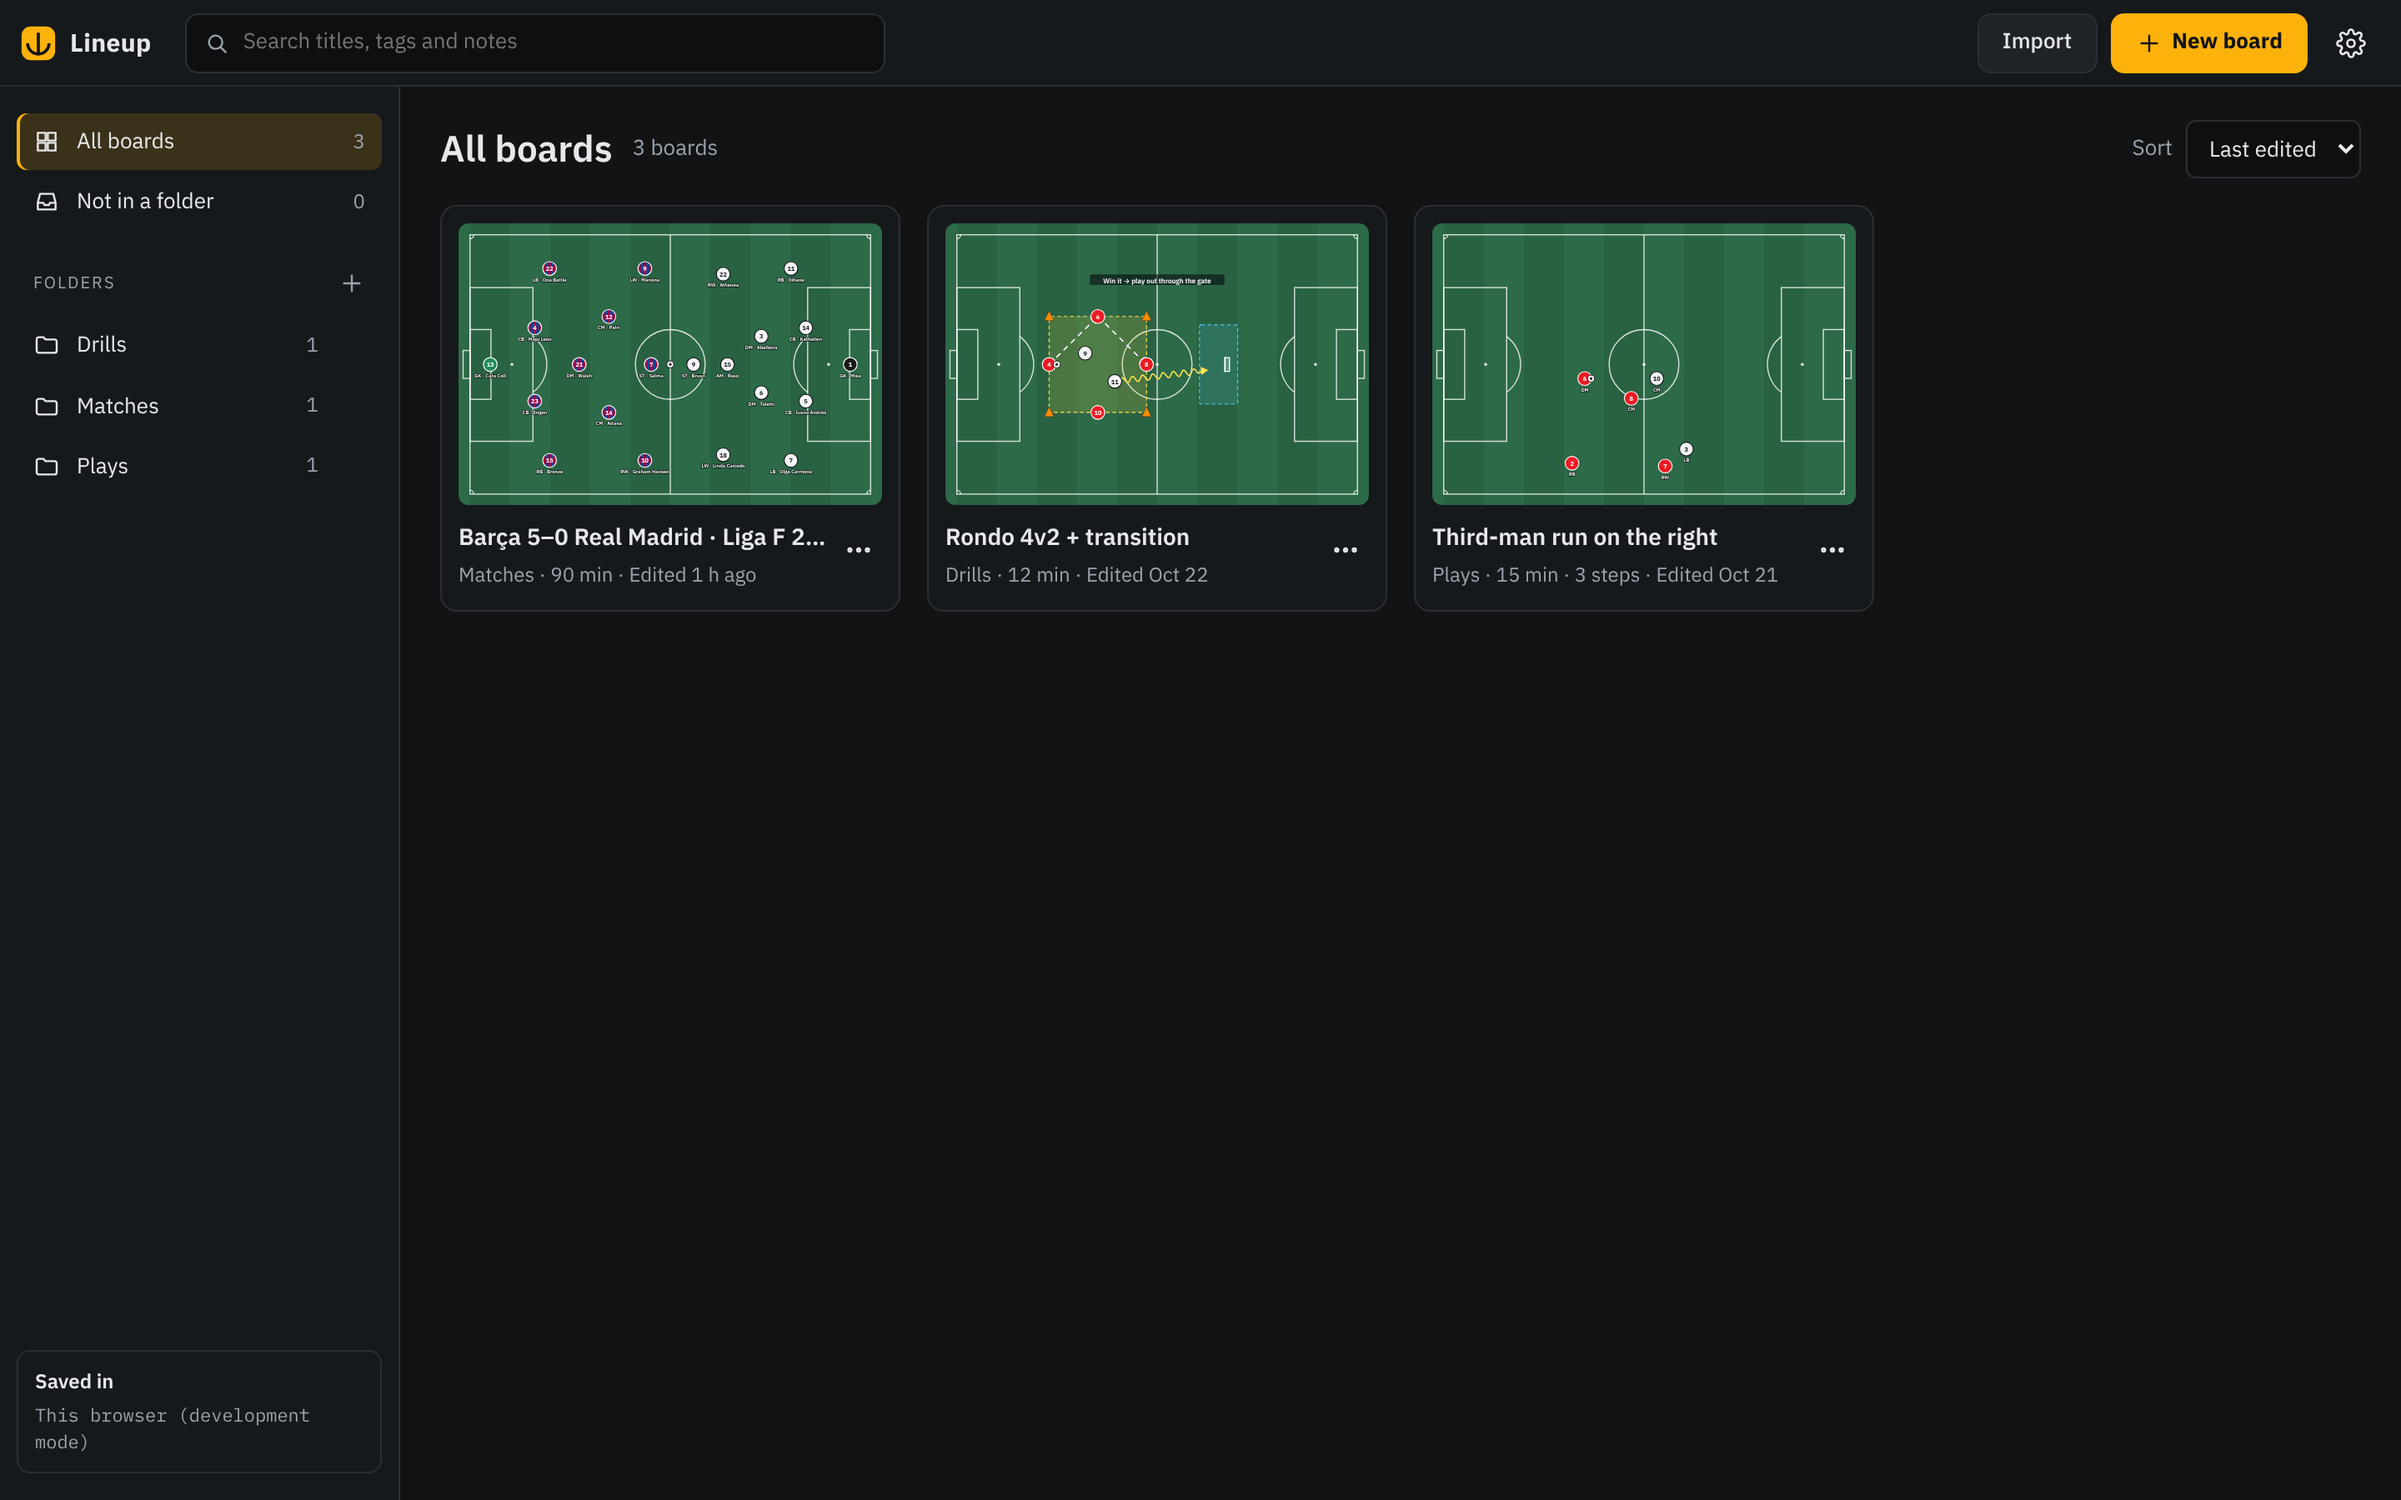
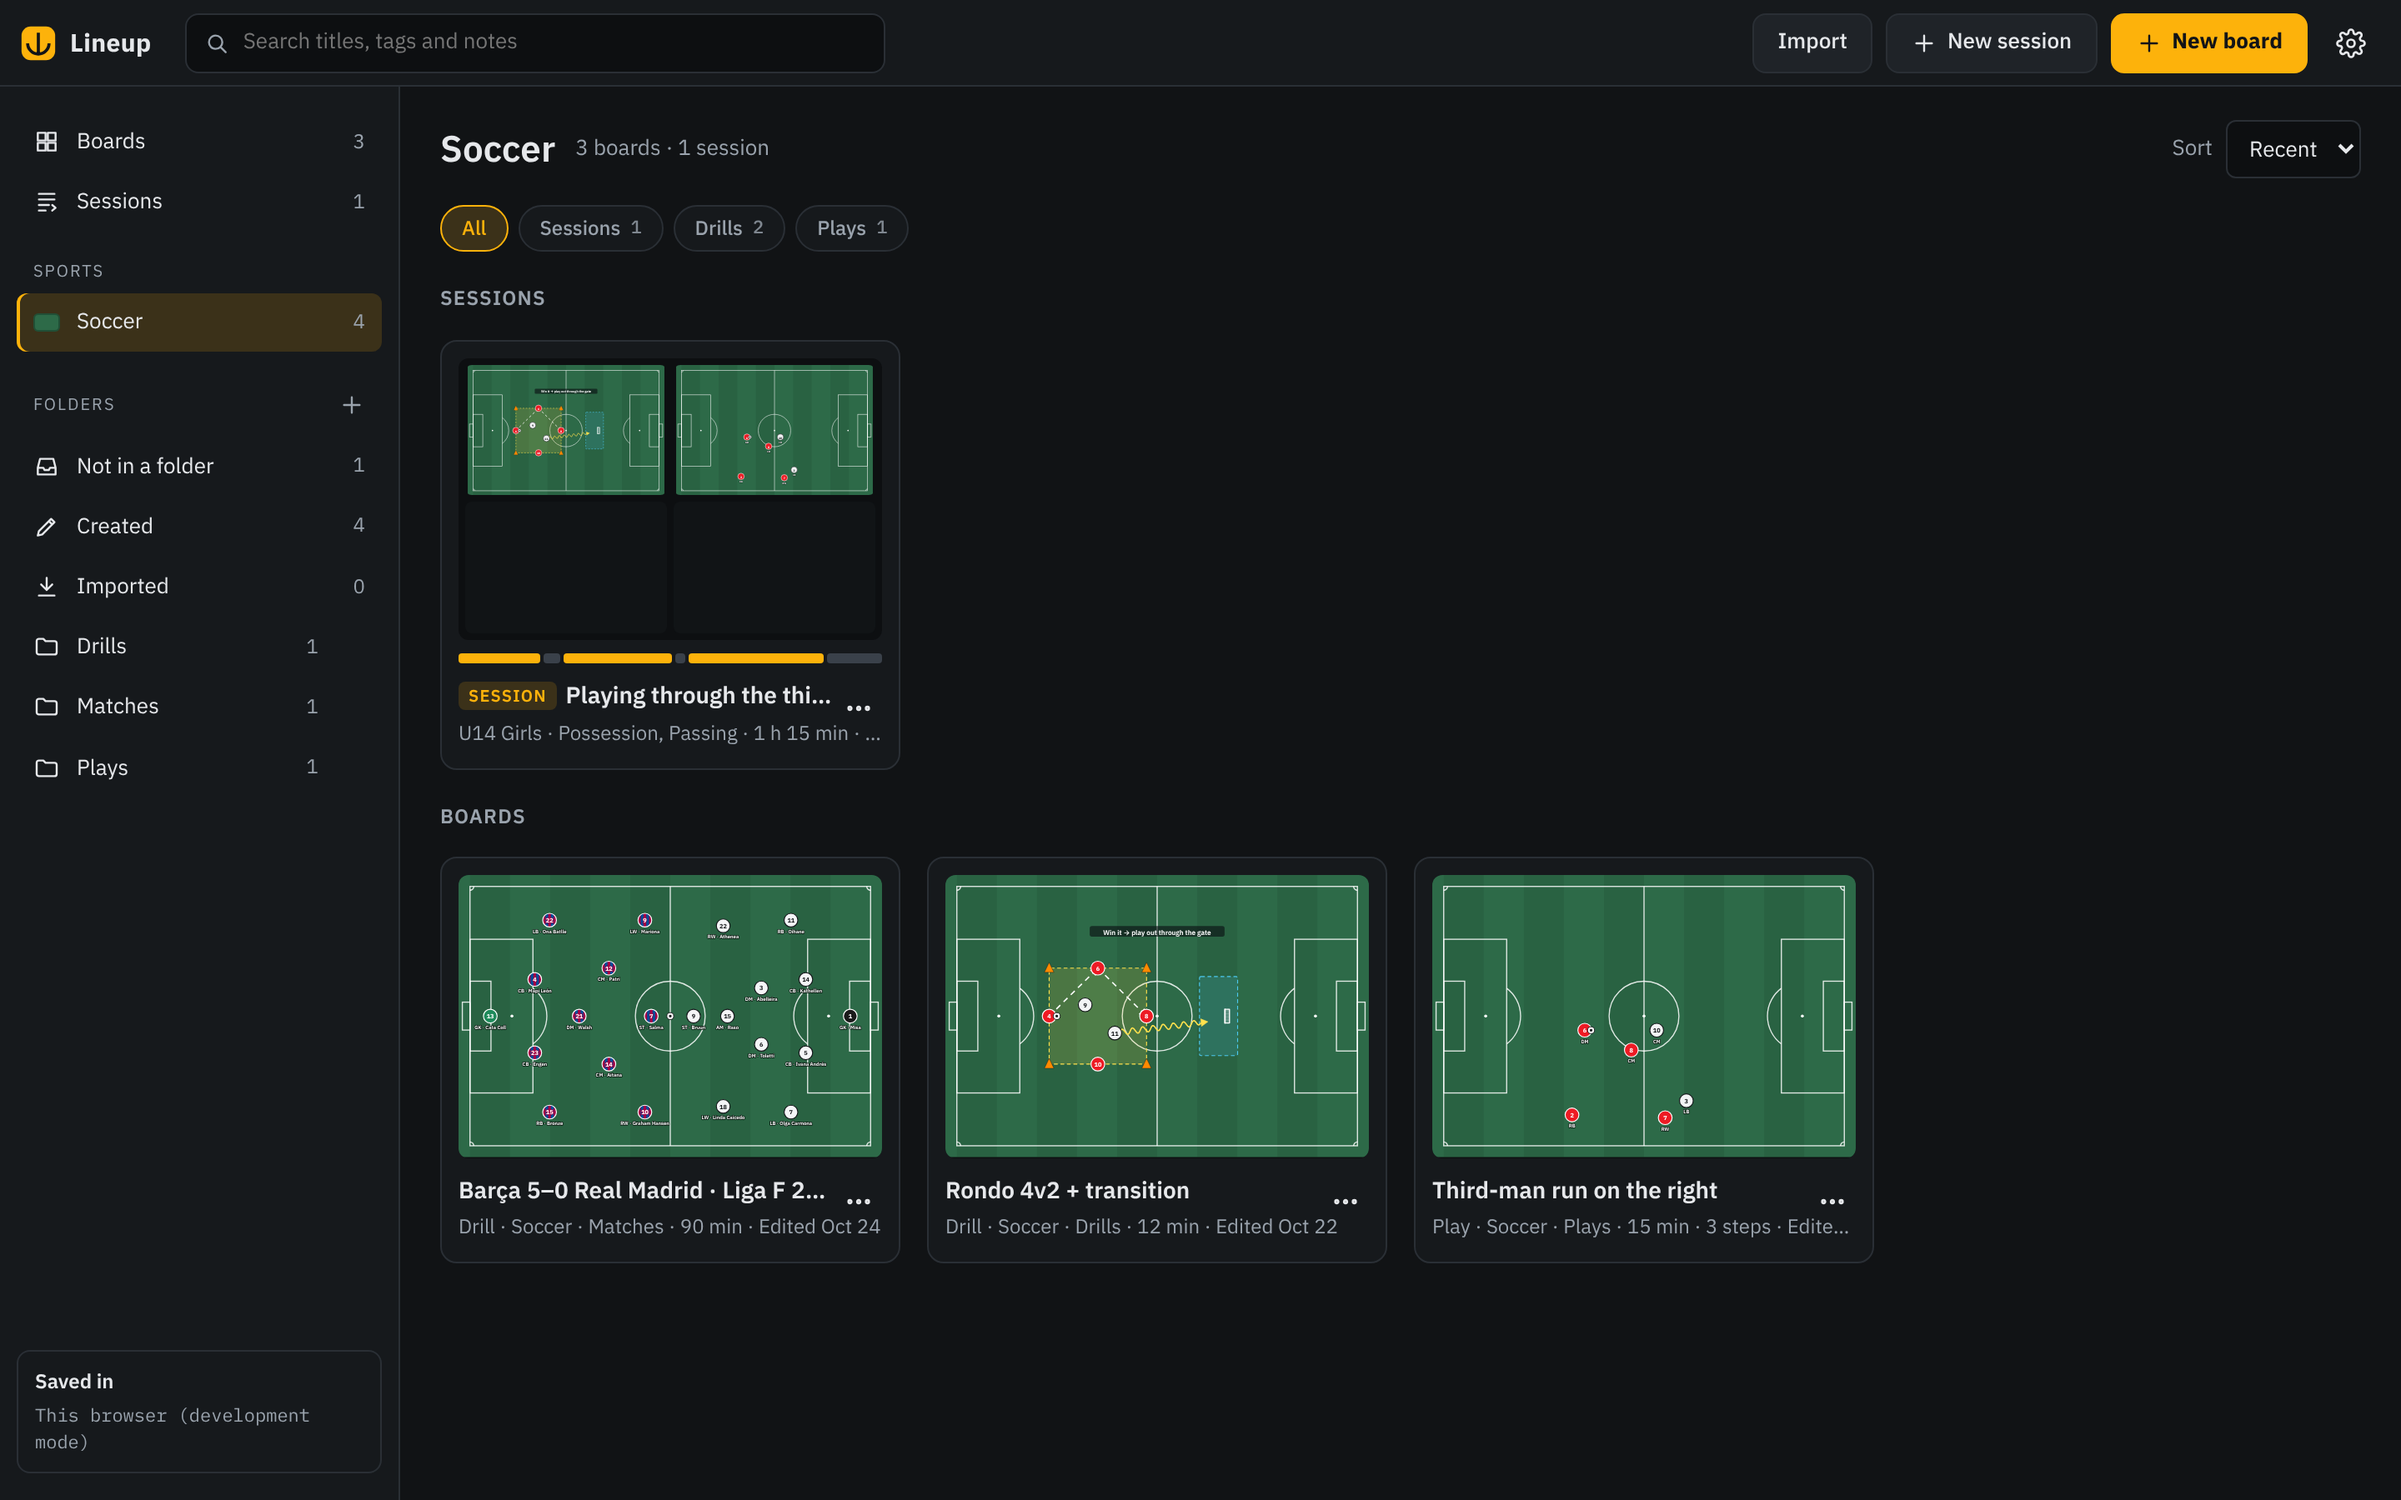
style(library): colour session card strips like the plan, and update the library screenshot

diff --git a/src/components/library/SessionCard.tsx b/src/components/library/SessionCard.tsx
@@ -1,5 +1,6 @@
 import {
 	formatMinutes,
+	isRestBlock,
 	Session,
 	sessionMinutes,
 	sessionTitle,
@@ -15,7 +16,8 @@ import CardMenuButton from "./CardMenuButton";
 
 /**
  * A session in the library: the first drills' pictures, a strip showing how
- * the time is split between drills and breaks, and its details.
+ * the time is split between training and rest (the same colours as the plan),
+ * and its details.
  */
 export default function SessionCard({
 	session,
@@ -76,7 +78,11 @@ export default function SessionCard({
 						{session.blocks.map((b) => (
 							<span
 								key={b.id}
-								className={`session-card__segment session-card__segment--${b.kind}`}
+								className={`session-card__segment session-card__segment--${
+									isRestBlock(b, (id) => getBoard(id)?.notes.stage ?? "")
+										? "rest"
+										: "active"
+								}`}
 								style={{ flexGrow: b.minutes || 0.0001 }}
 							/>
 						))}

diff --git a/src/model/session.ts b/src/model/session.ts
@@ -333,6 +333,24 @@ export function minutesFromText(text: string): number | null {
  * count as Activities). Breaks are numbered by name ("Water break 1"); other
  * blocks keep their own name.
  */
+/**
+ * Whether a block is a rest from training: a break, a cool-down, or a block
+ * without a part of the session. These are drawn in a neutral colour, and
+ * training parts in the accent colour.
+ */
+export function isRestBlock(
+	block: SessionBlock,
+	stageOf: (boardId: string) => string,
+): boolean {
+	const part =
+		block.kind === "break"
+			? ""
+			: block.kind === "custom"
+			  ? block.stage.trim()
+			  : block.stage.trim() || stageOf(block.boardId).trim() || "Activity";
+	return !part || part.toLowerCase() === "cool-down";
+}
+
 export function blockStages(
 	session: Session,
 	stageOf: (boardId: string) => string,

diff --git a/src/components/session/Timeline.tsx b/src/components/session/Timeline.tsx
@@ -8,6 +8,7 @@ import { useNavigate } from "react-router-dom";
 import { BOARD_TYPE_LABELS } from "../../model/board";
 import {
 	blockStages,
+	isRestBlock,
 	blockTimes,
 	createBreakBlock,
 	createCustomBlock,
@@ -98,15 +99,7 @@ function BlockRow({
 	const update = (patch: BlockPatch) =>
 		dispatch({ type: "updateBlock", id: block.id, patch });
 
-	// Training parts are in the accent colour; breaks, cool-downs and blocks
-	// without a part are neutral.
-	const part =
-		block.kind === "break"
-			? ""
-			: block.kind === "custom"
-			  ? block.stage.trim()
-			  : block.stage.trim() || board?.notes.stage.trim() || "Activity";
-	const resting = !part || part.toLowerCase() === "cool-down";
+	const resting = isRestBlock(block, () => board?.notes.stage ?? "");
 
 	const entries = menu(block, index);
 	const summary = board

diff --git a/src/styles/app.css b/src/styles/app.css
@@ -2080,15 +2080,11 @@ button.save-status--error:hover {
 	min-width: 3px;
 }
 
-.session-card__segment--drill {
+.session-card__segment--active {
 	background: var(--accent);
 }
 
-.session-card__segment--break {
-	background: var(--secondary);
-}
-
-.session-card__segment--custom {
+.session-card__segment--rest {
 	background: var(--border-strong);
 }
 

diff --git a/README.md b/README.md
@@ -70,7 +70,7 @@ Everything is stored as files on your computer, and the app works without an acc
 
 ### Library and files
 
-![The library with folders and previews](screenshots/library.png)
+![The library: a session and boards for soccer, with folders and the Created and Imported views](screenshots/library.png)
 
 - Every board and session saves automatically to `Documents\Lineup`, as `.lineup` and `.lineup-session` files
 - Browse by sport or folder, search across titles, tags and notes, sort, duplicate and delete

diff --git a/CHANGELOG.md b/CHANGELOG.md
@@ -19,7 +19,7 @@ This project adheres to semantic versioning (0.x during early development).
 
 ### Changed
 
-- The plan's colours follow the part of the session: warm-ups, activities, games and scrimmages in yellow, and water breaks and cool-downs in grey
+- The plan's colours follow the part of the session: warm-ups, activities, games and scrimmages in yellow, and water breaks and cool-downs in grey. The strip on session cards in the library uses the same colours
 
 ---
 
